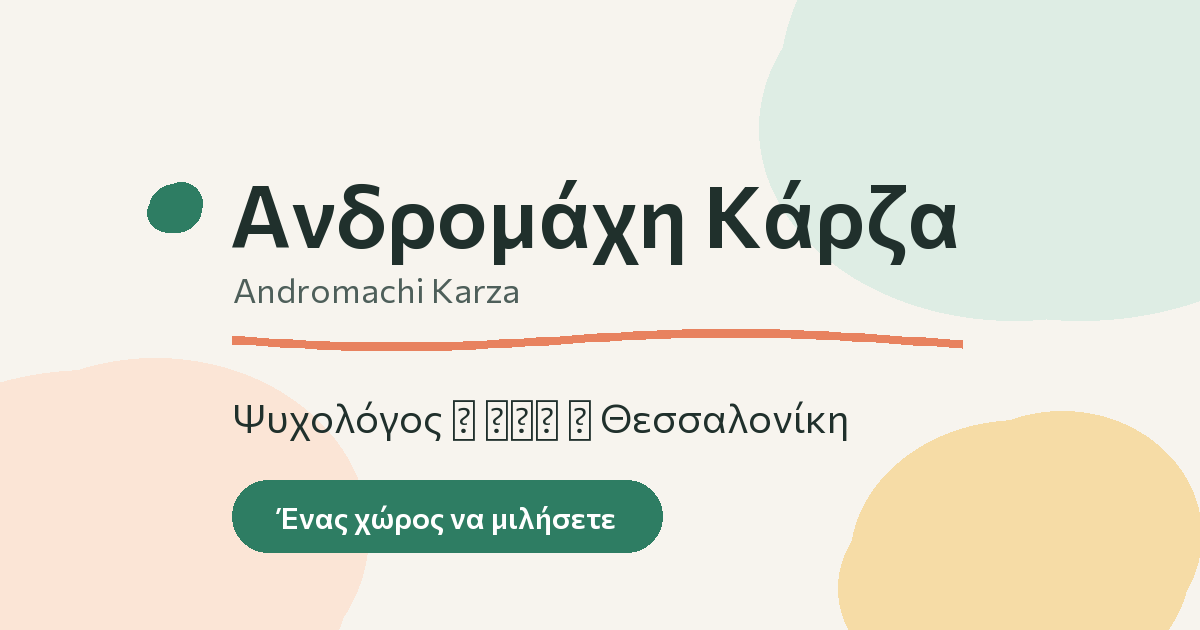
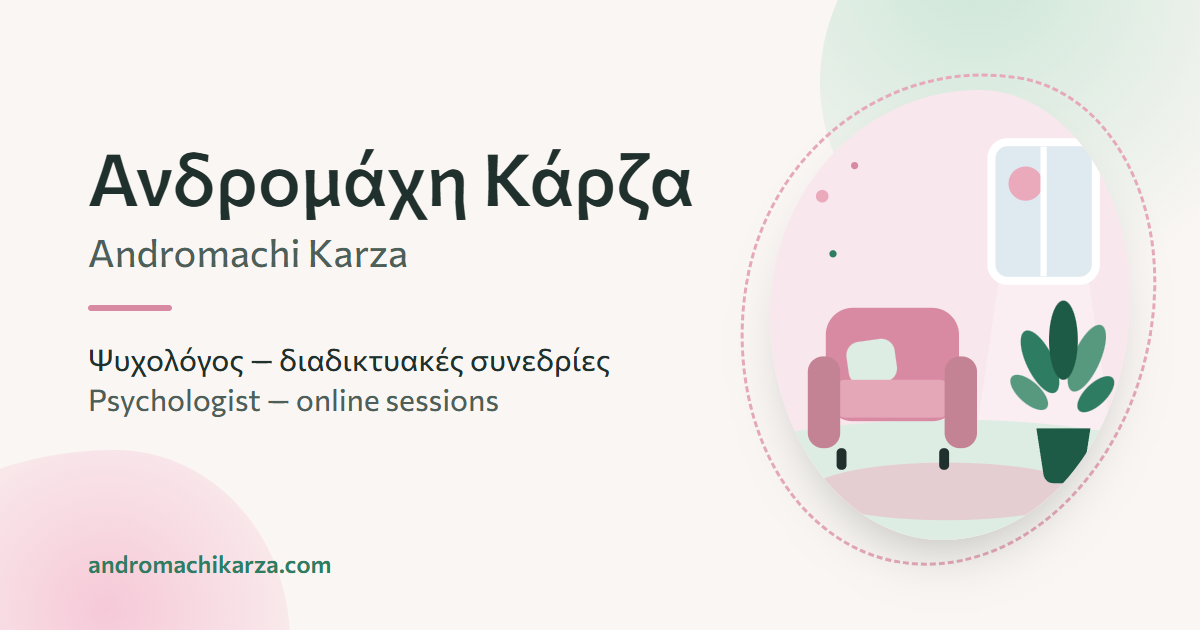
SEO: bilingual name signals, WebSite JSON-LD, new share image, IndexNow
- WebSite node (site name + alternateName in Greek and Latin script),
  MedicalBusiness alternateName, Person url unified across locales.
- Meta descriptions carry both spellings of the name.
- FAQPage answers re-synced with the visible FAQ text.
- robots meta (max-image-preview:large); sitemap lastmod.
- og.png rebuilt: old one rendered tofu boxes, said Θεσσαλονίκη and an
  old tagline. Now bilingual name, role, domain, the site's illustration.
- IndexNow key file for Bing/Yandex submission.

diff --git a/index.html b/index.html
@@ -6,7 +6,8 @@
 <meta name="theme-color" content="#FAF6F3">
 
 <title>Ανδρομάχη Κάρζα — Ψυχολόγος | Διαδικτυακές συνεδρίες</title>
-<meta name="description" content="Ανδρομάχη Κάρζα, Ψυχολόγος Α.Π.Θ., MEd Ειδικής Αγωγής, MSc Εκπαιδευτικής Ψυχολογίας. Ψυχολογική υποστήριξη και συμβουλευτική για παιδιά, εφήβους και ενήλικες. Εξειδίκευση σε ΔΕΠΥ, ΔΑΦ και μαθησιακές δυσκολίες, ψυχοεκπαίδευση γονέων. Ραντεβού διαδικτυακά.">
+<meta name="description" content="Ανδρομάχη Κάρζα (Andromachi Karza), Ψυχολόγος Α.Π.Θ., MEd Ειδικής Αγωγής, MSc Εκπαιδευτικής Ψυχολογίας. Ψυχολογική υποστήριξη και συμβουλευτική για παιδιά, εφήβους και ενήλικες. Εξειδίκευση σε ΔΕΠΥ, ΔΑΦ και μαθησιακές δυσκολίες, ψυχοεκπαίδευση γονέων. Ραντεβού διαδικτυακά.">
+<meta name="robots" content="index, follow, max-image-preview:large">
 
 <link rel="canonical" href="https://andromachikarza.com/">
 <link rel="alternate" hreflang="el" href="https://andromachikarza.com/">
@@ -44,9 +45,19 @@
   "@context": "https://schema.org",
   "@graph": [
     {
+      "@type": "WebSite",
+      "@id": "https://andromachikarza.com/#website",
+      "url": "https://andromachikarza.com/",
+      "name": "Ανδρομάχη Κάρζα",
+      "alternateName": ["Andromachi Karza", "Ανδρομάχη Κάρζα — Ψυχολόγος", "Andromachi Karza — Psychologist"],
+      "inLanguage": ["el", "en"],
+      "publisher": { "@id": "https://andromachikarza.com/#person" }
+    },
+    {
       "@type": "MedicalBusiness",
       "@id": "https://andromachikarza.com/#practice",
       "name": "Ανδρομάχη Κάρζα — Ψυχολόγος",
+      "alternateName": "Andromachi Karza — Psychologist",
       "url": "https://andromachikarza.com/",
       "image": "https://andromachikarza.com/assets/og.png",
       "telephone": "+306988355485",
@@ -122,7 +133,7 @@
         {
           "@type": "Question",
           "name": "Κάνετε διάγνωση ΔΕΠΥ ή αυτισμού;",
-          "acceptedAnswer": { "@type": "Answer", "text": "Η διάγνωση των νευροαναπτυξιακών διαταραχών δίνεται από διεπιστημονική ομάδα — ΚΕΔΑΣΥ, Ιατροπαιδαγωγικό Κέντρο ή παιδοψυχίατρος. Αυτό που κάνω εγώ είναι η ψυχολογική αξιολόγηση των αναγκών, η υποστήριξη και η παρέμβαση, καθώς και η συνεργασία με τους φορείς που θέτουν τη διάγνωση. Αν χρειάζεται επίσημη διάγνωση, σας κατευθύνω πού να απευθυνθείτε. Έχω εργαστεί σε πλαίσιο ψυχομετρικής αξιολόγησης, με σταθμισμένα εργαλεία για τις γνωστικές ικανότητες και τις ψυχοκοινωνικές δυνατότητες παιδιών και εφήβων, οπότε μπορούμε να διαβάσουμε μαζί μια έκθεση αξιολόγησης που ήδη κρατάτε: τι καταγράφει και τι σημαίνει για την καθημερινότητα του παιδιού." }
+          "acceptedAnswer": { "@type": "Answer", "text": "Η διάγνωση των νευροαναπτυξιακών διαταραχών δίνεται από διεπιστημονική ομάδα — ΚΕΔΑΣΥ, Ιατροπαιδαγωγικό Κέντρο ή παιδοψυχίατρος. Αυτό που κάνω εγώ είναι η ψυχολογική αξιολόγηση των αναγκών, η υποστήριξη και η παρέμβαση, καθώς και η συνεργασία με τους φορείς που θέτουν τη διάγνωση. Αν χρειάζεται επίσημη διάγνωση, σας κατευθύνω πού να απευθυνθείτε. Έχω εργαστεί σε πλαίσιο ψυχομετρικής αξιολόγησης, με σταθμισμένα εργαλεία για τις γνωστικές ικανότητες και τις ψυχοκοινωνικές δυνατότητες παιδιών και εφήβων. Πρακτικά αυτό σημαίνει ότι μπορούμε να διαβάσουμε μαζί μια έκθεση αξιολόγησης που ήδη κρατάτε: τι καταγράφει και τι σημαίνει για την καθημερινότητα του παιδιού." }
         },
         {
           "@type": "Question",

diff --git a/en/index.html b/en/index.html
@@ -6,7 +6,8 @@
 <meta name="theme-color" content="#FAF6F3">
 
 <title>Andromachi Karza — Psychologist | Online sessions</title>
-<meta name="description" content="Andromachi Karza, Psychologist (Aristotle University of Thessaloniki), MEd in Special Education, MSc in Educational Psychology. Psychological support and counselling for children, adolescents and adults. Specialised in ADHD, autism spectrum and learning difficulties; parent psychoeducation. Sessions online.">
+<meta name="description" content="Andromachi Karza (Ανδρομάχη Κάρζα), Psychologist (Aristotle University of Thessaloniki), MEd in Special Education, MSc in Educational Psychology. Psychological support and counselling for children, adolescents and adults. Specialised in ADHD, autism spectrum and learning difficulties; parent psychoeducation. Sessions online.">
+<meta name="robots" content="index, follow, max-image-preview:large">
 
 <link rel="canonical" href="https://andromachikarza.com/en/">
 <link rel="alternate" hreflang="el" href="https://andromachikarza.com/">
@@ -39,9 +40,19 @@
   "@context": "https://schema.org",
   "@graph": [
     {
+      "@type": "WebSite",
+      "@id": "https://andromachikarza.com/#website",
+      "url": "https://andromachikarza.com/",
+      "name": "Ανδρομάχη Κάρζα",
+      "alternateName": ["Andromachi Karza", "Ανδρομάχη Κάρζα — Ψυχολόγος", "Andromachi Karza — Psychologist"],
+      "inLanguage": ["el", "en"],
+      "publisher": { "@id": "https://andromachikarza.com/#person" }
+    },
+    {
       "@type": "MedicalBusiness",
       "@id": "https://andromachikarza.com/#practice",
       "name": "Ανδρομάχη Κάρζα — Ψυχολόγος",
+      "alternateName": "Andromachi Karza — Psychologist",
       "url": "https://andromachikarza.com/",
       "image": "https://andromachikarza.com/assets/og.png",
       "telephone": "+306988355485",
@@ -57,7 +68,7 @@
       "name": "Ανδρομάχη Κάρζα",
       "alternateName": ["Andromachi Karza", "Ανδρομαχη Καρζα", "Andromaxi Karza"],
       "jobTitle": "Ψυχολόγος",
-      "url": "https://andromachikarza.com/en/",
+      "url": "https://andromachikarza.com/",
       "worksFor": { "@id": "https://andromachikarza.com/#practice" },
       "knowsLanguage": ["el", "en"],
       "knowsAbout": [
@@ -109,7 +120,7 @@
         {
           "@type": "Question",
           "name": "Do you diagnose ADHD or autism?",
-          "acceptedAnswer": { "@type": "Answer", "text": "In Greece a neurodevelopmental diagnosis is made by a multidisciplinary team — a KEDASY centre, a child guidance centre, or a child psychiatrist. What I do is the psychological assessment of needs, the support and the intervention, working alongside the services that issue the diagnosis. If a formal diagnosis is needed, I will point you to where to go. I have worked in psychometric assessment using standardised instruments for the cognitive abilities and psychosocial strengths of children and adolescents, so we can read through an assessment report you already hold together." }
+          "acceptedAnswer": { "@type": "Answer", "text": "In Greece a neurodevelopmental diagnosis is made by a multidisciplinary team — a KEDASY centre, a child guidance centre, or a child psychiatrist. What I do is the psychological assessment of needs, the support and the intervention, working alongside the services that issue the diagnosis. If a formal diagnosis is needed, I will point you to where to go. I have worked in psychometric assessment, using standardised instruments for the cognitive abilities and psychosocial strengths of children and adolescents. In practice that means we can read through an assessment report you already hold: what it says, what it does not say, and what it means for everyday life." }
         },
         {
           "@type": "Question",
@@ -119,7 +130,7 @@
         {
           "@type": "Question",
           "name": "Is what we say confidential?",
-          "acceptedAnswer": { "@type": "Answer", "text": "Yes. I am bound by professional confidentiality. When working with minors, parents are told how the work is going and anything that concerns the child's safety, but not every detail the child confides — this is agreed explicitly with both sides at the start. The exceptions are few and specific: mainly immediate danger to someone's life, or where the law requires it." }
+          "acceptedAnswer": { "@type": "Answer", "text": "Yes. I am bound by professional confidentiality. When working with minors, parents are told how the work is going and anything that concerns the child's safety — but not every detail the child confides. This is agreed explicitly with both sides at the start. The exceptions are few and specific: mainly where there is immediate danger to someone's life, or where the law requires it. I will explain them fully in the first session." }
         }
       ]
     }

diff --git a/README.md b/README.md
@@ -91,7 +91,19 @@ form `action` instead of the address.
 - **Google Business Profile** as an individual practitioner, category
   Ψυχολόγος. Keep the NAP string (name, address, phone) byte-identical with
   the footer — accent/abbreviation drift (`Λ.` vs `Λεωφόρος`) splits listings.
-- Search Console: submit `sitemap.xml`.
+- Search Console: add a **Domain** property for `andromachikarza.com`
+  (verify through Cloudflare), submit `sitemap.xml`, and request indexing of
+  `/` and `/en/`. Bing Webmaster Tools can import the property from Google.
+- **IndexNow** (Bing, Yandex, Seznam, Naver — and DuckDuckGo/Yahoo/Ecosia via
+  Bing): the key file `ba8d31c7664c8a3900ce33f3797be55e.txt` in the root
+  proves ownership. Don't delete it. After content changes, ping:
+  `curl -X POST https://api.indexnow.org/indexnow -H 'content-type: application/json'
+  -d '{"host":"andromachikarza.com","key":"ba8d31c7664c8a3900ce33f3797be55e","urlList":["https://andromachikarza.com/","https://andromachikarza.com/en/"]}'`
+- Name searches: the JSON-LD `WebSite`/`Person` nodes carry both spellings
+  (Ανδρομάχη Κάρζα / Andromachi Karza). When she has public profiles
+  (LinkedIn, Facebook, Instagram, directories), add their URLs to the
+  `Person` node as `"sameAs": [...]` in both HTML files, and link each
+  profile back to the site.
 - Analytics, if wanted: **Cloudflare Web Analytics only** (cookieless — no
   banner needed). GA4 would require a prior-consent banner in Greece.
 - No blog of AI-generated posts — this is YMYL health content; Google's
